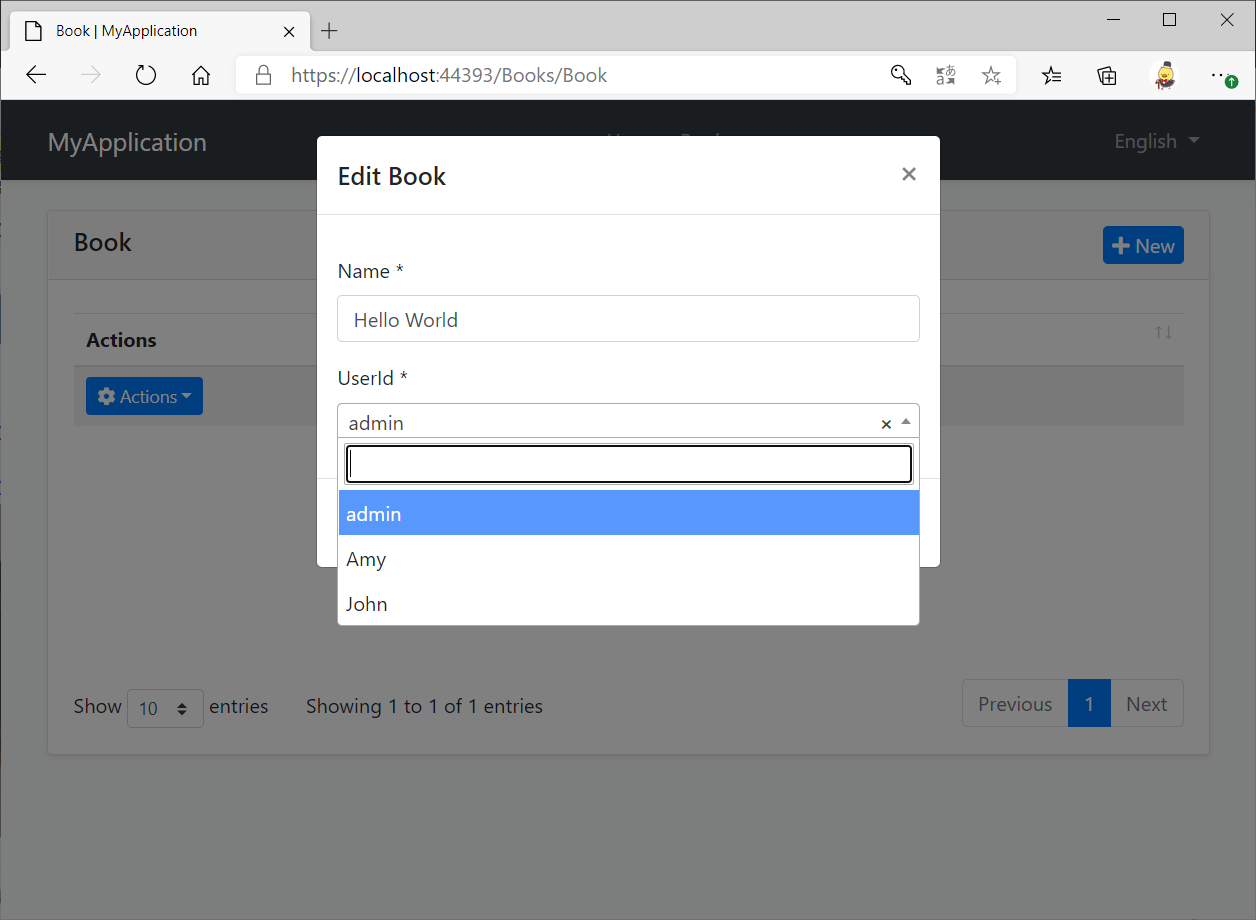
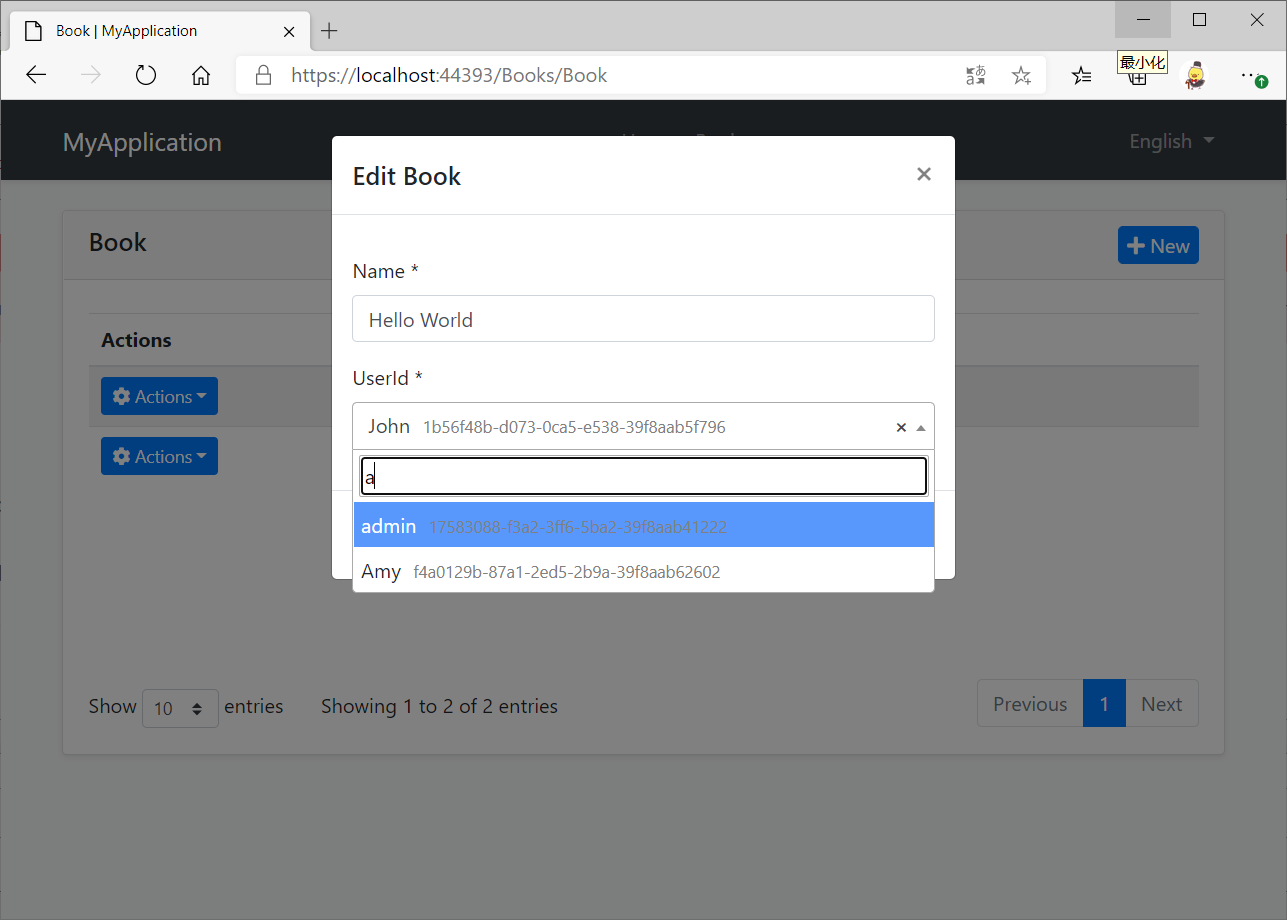
Improve display effect

diff --git a/src/EasyAbp.Abp.TagHelperPlus/EasyAbp/Abp/TagHelperPlus/TagHelpers/TagHelperPlusAbpSelectTagHelperService.cs b/src/EasyAbp.Abp.TagHelperPlus/EasyAbp/Abp/TagHelperPlus/TagHelpers/TagHelperPlusAbpSelectTagHelperService.cs
@@ -60,42 +60,7 @@ namespace EasyAbp.Abp.TagHelperPlus.TagHelpers
 
             var tagId = TagHelper.AspFor.Name.Replace('.', '_');
             
-            return "<script>$(function () { let currentValues = " +
-                   _jsonSerializer.Serialize(currentValues) +
-                   "; let select2Item = function (item) { return item.text; }; let select2Option = { allowClear: true, width: \"100%\", templateResult: select2Item, templateSelection: select2Item, ajax: { url: '" +
-                   easySelectorAttribute.GetListedDataSourceUrl +
-                   "', dataType: \"json\", delay: 250, data: function (params) { params.page = params.page || 1; return { filter: params.term, skipCount: (params.page - 1) * " +
-                   easySelectorAttribute.MaxResultCount +
-                   ", maxResultCount: " +
-                   easySelectorAttribute.MaxResultCount +
-                   ", } }, processResults: function (data, params) { params.page = params.page || 1; return { results: data.items.map(function (item) { return { id: item." +
-                   easySelectorAttribute.KeyPropertyName +
-                   ", text: item." +
-                   easySelectorAttribute.TextPropertyName +
-                   " ?? item." +
-                   easySelectorAttribute.AlternativeTextPropertyName +
-                   " } }), pagination: { more: (params.page * " +
-                   easySelectorAttribute.MaxResultCount +
-                   ") < data.totalCount } }; }, cache: true }, placeholder: { id: -1, text: '" +
-                   placeHolder +
-                   "' } }; $(\"#" +
-                   tagId +
-                   "\").select2(select2Option); " +
-                   "currentValues && currentValues.values.forEach(function(e) { if (!$(\"#" +
-                   tagId +
-                   "\").find('option:contains(' + e + ')').length) abp.ajax({ type: 'GET', url: '" +
-                   easySelectorAttribute.GetSingleDataSourceUrl +
-                   "'.replace('{id}', e), success: function (result) { $(\"#" +
-                   tagId +
-                   "\").append($('<option value=\"' + e + '\">').text(result." +
-                   easySelectorAttribute.TextPropertyName +
-                   " ?? result." +
-                   easySelectorAttribute.AlternativeTextPropertyName +
-                   ")); }}); " +
-                   "$(\"#" +
-                   tagId +
-                   "\").val(currentValues.values).trigger('change'); }); " +
-                   "});</script>";
+            return $"<style>.select2-selection__rendered{{line-height:35px !important;padding-left:0.75rem !important;}}.select2-container .select2-selection--single{{height:38px !important;}}.select2-selection__arrow{{height:38px !important;}} .selection-subtext {{ padding-left: 10px; color: #808080 !important; font-size: smaller; }}</style> <script>$(function () {{ let currentValues = {_jsonSerializer.Serialize(currentValues)}; function stringMatch(term,candidate){{return candidate&&candidate.toLowerCase().indexOf(term.toLowerCase())>=0}}; function matchCustom(params,data){{if($.trim(params.term)===\"\"){{return data}}if(typeof data.text===\"undefined\"){{return null}}if(stringMatch(params.term,data.text)){{return data}}if(stringMatch(params.term,state.id)){{return data}}return null}}; let select2Item = function (state) {{ return $('<div>' + state.text + '<a class=\"selection-subtext\">' + state.id + '</a></div>'); }}; let select2Option = {{ allowClear: true, width: \"100%\", matcher: matchCustom, templateResult: select2Item, templateSelection: select2Item, ajax: {{ url: '{easySelectorAttribute.GetListedDataSourceUrl}', dataType: \"json\", delay: 250, data: function (params) {{ params.page = params.page || 1; return {{ filter: params.term, skipCount: (params.page - 1) * {easySelectorAttribute.MaxResultCount}, maxResultCount: {easySelectorAttribute.MaxResultCount}, }} }}, processResults: function (data, params) {{ params.page = params.page || 1; return {{ results: data.items.map(function (item) {{ return {{ id: item.{easySelectorAttribute.KeyPropertyName}, text: item.{easySelectorAttribute.TextPropertyName} ?? item.{easySelectorAttribute.AlternativeTextPropertyName} }} }}), pagination: {{ more: (params.page * {easySelectorAttribute.MaxResultCount}) < data.totalCount }} }}; }}, cache: true }}, placeholder: {{ id: '', text: '{placeHolder}' }} }}; $(\"#{tagId}\").select2(select2Option); currentValues && currentValues.values.forEach(function(e) {{ if (!$(\"#{tagId}\").find('option:contains(' + e + ')').length) abp.ajax({{ type: 'GET', url: '{easySelectorAttribute.GetSingleDataSourceUrl}'.replace('{{id}}', e), success: function (result) {{ $(\"#{tagId}\").append($('<option value=\"' + e + '\">').text(result.{easySelectorAttribute.TextPropertyName} ?? result.{easySelectorAttribute.AlternativeTextPropertyName})); }}}}); $(\"#{tagId}\").val(currentValues.values).trigger('change'); }}); }});</script>";
         }
     }
 }
